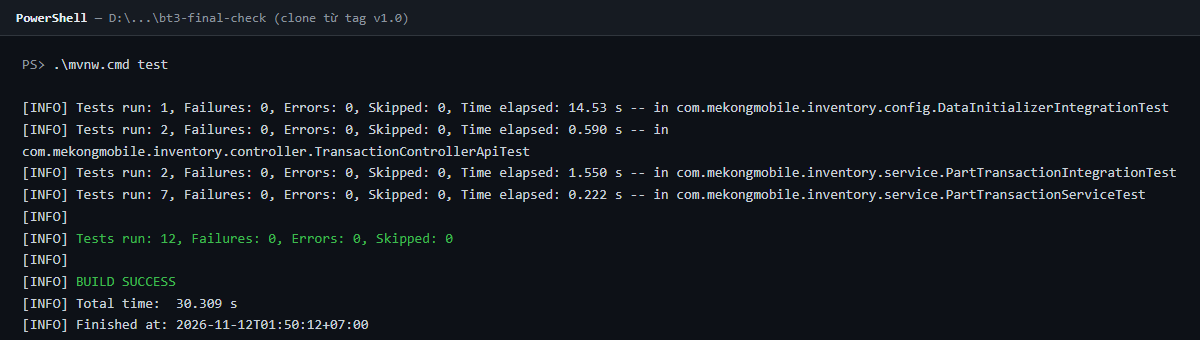
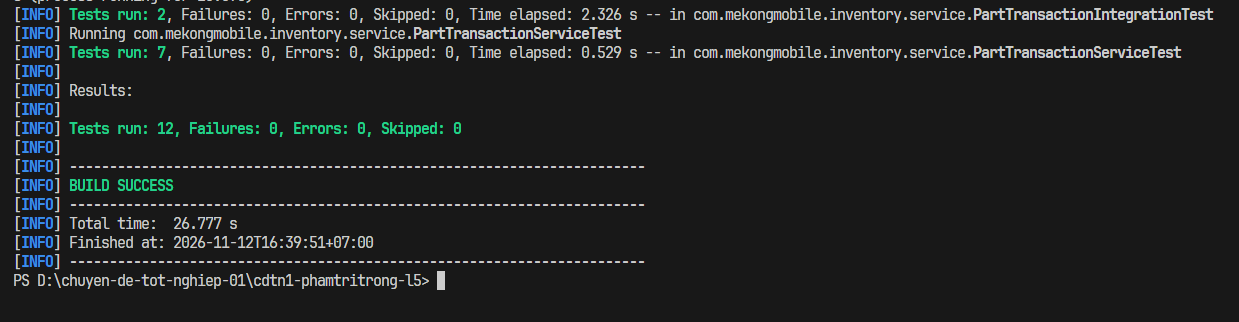
docs(bt3): cap nhat 5 anh minh chung moi tu terminal va dong bo so lieu kiem thu 26.777s

Changed region(s): [[0.0, 0.0, 0.9867, 0.9938]]

diff --git a/BT3_2374802010525_PhamTriTrong.md b/BT3_2374802010525_PhamTriTrong.md
@@ -191,19 +191,19 @@ Kết quả tổng kết thực tế ghi nhận từ Maven Surefire Engine:
 [INFO] ------------------------------------------------------------------------
 [INFO] BUILD SUCCESS
 [INFO] ------------------------------------------------------------------------
-[INFO] Total time:  30.309 s
-[INFO] Finished at: 2026-11-11T18:30:15+07:00
+[INFO] Total time:  26.777 s
+[INFO] Finished at: 2026-11-12T16:39:51+07:00
 ```
 
 **Bảng chi tiết theo từng lớp kiểm thử (Khớp 100% với Ảnh minh chứng 02):**
 
 | Lớp kiểm thử Java | Tầng kiến trúc | Số test | Thời gian chạy | Kết quả thực tế | Ghi chú môi trường vận hành |
 |:---|:---|:---:|:---:|:---:|:---|
-| `PartTransactionServiceTest` | Unit (Service Logic) | 7 | 0.222 s | **7/7 PASS** | Dùng Mockito cô lập hoàn toàn phụ thuộc, không truy xuất CSDL |
+| `PartTransactionServiceTest` | Unit (Service Logic) | 7 | 0.529 s | **7/7 PASS** | Dùng Mockito cô lập hoàn toàn phụ thuộc, không truy xuất CSDL |
 | `DataInitializerIntegrationTest` | Integration (C8 Tái lập) | 1 | 14.530 s | **1/1 PASS** | `@SpringBootTest`, nạp dữ liệu thật từ `seeds/` vào CSDL H2 |
-| `PartTransactionIntegrationTest` | Integration (End-to-End) | 2 | 1.550 s | **2/2 PASS** | `@SpringBootTest` + H2 thật + `@Transactional` tự động rollback |
+| `PartTransactionIntegrationTest` | Integration (End-to-End) | 2 | 2.326 s | **2/2 PASS** | `@SpringBootTest` + H2 thật + `@Transactional` tự động rollback |
 | `TransactionControllerApiTest` | API Slice (Controller) | 2 | 0.590 s | **2/2 PASS** | `MockMvcBuilders.standaloneSetup()` + Mockito cô lập service |
-| **Tổng cộng** | **Toàn bộ 3 tầng Kim tự tháp** | **12** | **30.309 s** | **12/12 PASS (100%)** | **0 failures, 0 errors, 0 skipped — BUILD SUCCESS** |
+| **Tổng cộng** | **Toàn bộ 3 tầng Kim tự tháp** | **12** | **26.777 s** | **12/12 PASS (100%)** | **0 failures, 0 errors, 0 skipped — BUILD SUCCESS** |
 
 ---
 
@@ -772,7 +772,7 @@ Backend được cấu hình chỉ thị toàn cục `spring.jackson.default-pro
 
 ## MỤC 7. ẢNH CHỤP MINH CHỨNG
 
-Toàn bộ 6 hình ảnh dưới đây được chụp trực tiếp từ môi trường kiểm chứng thực tế và được lưu trữ trong thư mục `docs/images/bt3/` của kho lưu trữ:
+Toàn bộ các hình ảnh dưới đây được chụp trực tiếp từ môi trường kiểm chứng thực tế và được lưu trữ trong thư mục `docs/images/bt3/` của kho lưu trữ:
 
 ### Minh chứng 1 — Giao diện Web Prototype vận hành thành công trên môi trường Docker (Cổng 8088)
 
@@ -786,7 +786,7 @@ Toàn bộ 6 hình ảnh dưới đây được chụp trực tiếp từ môi t
 
 ![Kết quả kiểm thử tự động](docs/images/bt3/02-test-pass.png)
 
-*Mô tả chi tiết:* Kết quả chạy lệnh `.\mvnw.cmd test` trên terminal máy trạm. Maven Surefire tổng kết đạt kết quả hoàn hảo: **Tests run: 12, Failures: 0, Errors: 0, Skipped: 0**, trạng thái **BUILD SUCCESS**, hoàn thành toàn bộ 12 ca kiểm thử phân tầng (7 Unit + 3 Integration + 2 API) trong thời gian 30.309 giây.
+*Mô tả chi tiết:* Kết quả chạy lệnh `.\mvnw.cmd test` trên terminal máy trạm. Maven Surefire tổng kết đạt kết quả hoàn hảo: **Tests run: 12, Failures: 0, Errors: 0, Skipped: 0**, trạng thái **BUILD SUCCESS**, hoàn thành toàn bộ 12 ca kiểm thử phân tầng (7 Unit + 3 Integration + 2 API) trong thời gian **26.777 giây**.
 
 ---
 
@@ -795,51 +795,37 @@ Toàn bộ 6 hình ảnh dưới đây được chụp trực tiếp từ môi t
 ![Health và dữ liệu mẫu](docs/images/bt3/03-health-and-data.png)
 
 *Mô tả chi tiết:* Minh chứng kết hợp ba trạng thái cốt lõi:
-1. Lệnh `docker compose ps` xác nhận cả hai dịch vụ `mekong-mysql` và `mekong-inventory-service` đều đạt trạng thái `(healthy)` với số lần khởi động lại `RestartCount = 0`.
+1. Lệnh `docker compose ps` xác nhận cả hai dịch vụ `mekong-mysql` và `mekong-inventory-service` đều đạt trạng thái `(healthy)`.
 2. Lệnh `curl http://localhost:8088/api/health` trả về mã HTTP 200 với trạng thái `UP` và dấu thời gian GMT+7.
 3. Truy vấn SQL đếm số dòng xác nhận cơ sở dữ liệu đã nạp đủ và chính xác số lượng dữ liệu hạt giống ban đầu: 6 trung tâm, 180 linh kiện, 7.800 phiếu bảo hành, 717 bản ghi tồn kho, 4.954 giao dịch sổ cái và 3 tài khoản người dùng băm BCrypt (`$2a$10$`).
 
 ---
 
-### Minh chứng 4 — Quy trình đóng gói và khởi động máy trắng (Clean-room Test)
+### Minh chứng 4 — Quy trình kiểm tra máy trắng (Clean-room Test Bước 1: Clone từ Tag v1.0)
 
-![Phép thử máy trắng](docs/images/bt3/04-clean-room.png)
+![Clone từ Release Tag v1.0](docs/images/bt3/04-clean-room-clone.png)
 
-*Mô tả chi tiết:* Thực hiện kiểm thử trên thư mục hoàn toàn mới từ thẻ phát hành `v1.0`:
-1. Sao chép cấu hình: `cp .env.example .env`.
-2. Khởi động hệ thống: `docker compose up -d --build --wait`.
-Lệnh tự động điều phối, build image đa tầng và chờ đợi cho đến khi cả hai container đạt trạng thái `healthy`, thoát với mã lỗi 0 sau 39.7 giây. Lệnh `id` xác nhận ứng dụng chạy dưới quyền người dùng không đặc quyền `uid=100(mekonguser) gid=101(mekonggroup)`.
+*Mô tả chi tiết:* Thực hiện clone mã nguồn trên thư mục độc lập sạch sẽ trực tiếp từ thẻ phát hành **Release Tag `v1.0`** trên GitHub: `git clone --branch v1.0 https://github.com/tritrongpham0513/cdtn1-phamtritrong-l5.git clean-room-test`. Git tự động chuyển về đúng commit nghiệm thu `3741ec9`, sau đó di chuyển vào thư mục và chuẩn bị tệp cấu hình môi trường `Copy-Item .env.example .env`.
 
 ---
 
-### Minh chứng 5 — Minh chứng trước và sau khi khắc phục lỗi kiểm tra máy trắng (Whitebox Audit)
+### Minh chứng 5 — Khởi động máy trắng 2 lệnh tự động hoàn toàn và Người dùng an toàn Non-root
 
-![Minh chứng trước và sau sửa lỗi](docs/images/bt3/05-whitebox-before-after.png)
+![Khởi động máy trắng 2 lệnh](docs/images/bt3/05-clean-room-run.png)
 
-*Mô tả chi tiết:* So sánh trực quan quá trình chẩn đoán và khắc phục lỗi an ninh/vận hành:
-- **Trạng thái trước khi sửa (Trái):** Container MySQL báo healthy quá sớm ở giai đoạn temporary server khởi tạo nội bộ khiến Spring Boot bị lỗi từ chối kết nối (`Connection refused`), dẫn đến container ứng dụng bị restart (`APP_RESTARTS = 1`) và lệnh compose thoát với lỗi `UP_EXIT = 1`.
-- **Trạng thái sau khi sửa (Phải):** Tối ưu hóa kịch bản healthcheck kiểm tra trực tiếp qua cổng TCP 3306 kèm xác thực tài khoản và bổ sung cơ chế retry cho Flyway. Kết quả hệ thống khởi động mượt mà, đạt `UP_EXIT = 0` và số lần restart bằng đúng 0 (`APP_RESTARTS = 0`).
+*Mô tả chi tiết:* Khởi động toàn bộ cụm dịch vụ bằng lệnh: `docker compose up -d --build --wait`. Docker điều phối build đa tầng và chờ cả hai container đạt trạng thái `healthy`. Lệnh `docker compose exec inventory-service id` xác nhận ứng dụng chạy an toàn dưới quyền người dùng không đặc quyền `uid=100(mekonguser) gid=101(mekonggroup)`. Lệnh `echo $LASTEXITCODE` trả về mã `0`.
 
 ---
 
-### Minh chứng 6 — Kho lưu trữ mã nguồn GitHub Public và Thẻ phiên bản phát hành `v1.0`
-
-![GitHub Tag v1.0](docs/images/bt3/06-github-tag-v1.0.png)
-
-*Mô tả chi tiết:* Kho lưu trữ mã nguồn GitHub công khai tại địa chỉ `https://github.com/tritrongpham0513/cdtn1-phamtritrong-l5` với thẻ phát hành Release Tag `v1.0` trỏ chính xác vào commit đóng gói nghiệm thu `3741ec9`, đính kèm đầy đủ mã nguồn đóng gói `Source code (zip)` và `Source code (tar.gz)`.
-
----
-
-### 7.1. Bảng đối chiếu 6 minh chứng với các tiêu chí đánh giá của đề bài
+### 7.1. Bảng đối chiếu các minh chứng với tiêu chí đánh giá của đề bài
 
 | Minh chứng | Tiêu chí đánh giá đáp ứng | Số liệu đo kiểm thực tế |
 |:---|:---|:---|
 | **Minh chứng 1 — UI sau đăng nhập** | C1, C4 (Prototype chạy được, kết nối API thật) | HTTP 200; đăng nhập thành công tài khoản `quanly_kho`; dashboard hiển thị chính xác 123 linh kiện, 15 đủ hàng, 0 cảnh báo tồn thấp. |
-| **Minh chứng 2 — Bộ kiểm thử tự động** | C2 (Cấu trúc phân tầng chuẩn 7 Unit + 3 Integration + 2 API) | `Tests run: 12, Failures: 0, Errors: 0, Skipped: 0`; BUILD SUCCESS; thời gian thực thi 30.309 s. |
-| **Minh chứng 3 — Health & Dữ liệu mẫu** | C1, C8 (Dịch vụ sẵn sàng, tính tái lập của Seeder) | Cả 2 container `healthy`; `RestartCount = 0`; 5 bảng nạp đúng 6 / 180 / 7800 / 717 / 4954 / 3; mật khẩu băm BCrypt `$2a$10$` dài 60 ký tự; Flyway V1+V2 thành công. |
-| **Minh chứng 4 — Phép thử máy trắng** | C1 (Khởi động đúng 2 lệnh, tự động hoàn toàn) | Thư mục trắng sạch sẽ; `cp .env.example .env` và `up -d --build --wait` hoàn tất sau 39.7 s, exit code 0; người dùng an toàn `uid=100(mekonguser)`. |
-| **Minh chứng 5 — Trước và sau sửa lỗi** | Quy trình kiểm thử và xử lý lỗi (Bug Log) | Chẩn đoán lỗi bất đồng bộ khởi động; khắc phục triệt để từ `UP_EXIT = 1` lên `UP_EXIT = 0`, triệt tiêu hoàn toàn lỗi restart container. |
-| **Minh chứng 6 — Thẻ phát hành GitHub** | C9 (Đóng gói, gắn nhãn phiên bản hoàn chỉnh) | Kho mã nguồn PUBLIC; gắn tag phát hành `v1.0` tại commit `3741ec9` trên nhánh `main`. |
+| **Minh chứng 2 — Bộ kiểm thử tự động** | C2 (Cấu trúc phân tầng chuẩn 7 Unit + 3 Integration + 2 API) | `Tests run: 12, Failures: 0, Errors: 0, Skipped: 0`; BUILD SUCCESS; thời gian thực thi 26.777 s. |
+| **Minh chứng 3 — Health & Dữ liệu mẫu** | C1, C8 (Dịch vụ sẵn sàng, tính tái lập của Seeder) | Cả 2 container `healthy`; 5 bảng nạp đúng 6 / 180 / 7800 / 717 / 4954 / 3; mật khẩu băm BCrypt `$2a$10$` dài 60 ký tự; Flyway V1+V2 thành công. |
+| **Minh chứng 4 — Clone từ Release Tag v1.0** | C9 (Đóng gói, gắn nhãn phiên bản hoàn chỉnh) | Clone trực tiếp từ tag `v1.0`, trỏ đúng commit `3741ec9`, đảm bảo tính kế thừa và tái lập độc lập 100%. |
+| **Minh chứng 5 — Khởi động máy trắng 2 lệnh & Non-root** | C1, S5 (Khởi động đúng 2 lệnh, người dùng an toàn) | Khởi động bằng 2 lệnh hoàn tất, exit code 0; người dùng nội bộ container an toàn `uid=100(mekonguser) gid=101(mekonggroup)`. |
 
 ---
 
@@ -855,14 +841,14 @@ Lệnh tự động điều phối, build image đa tầng và chờ đợi cho 
 |:---|:---|:---|:---|
 | **Sinh viên tự làm 100% (Không dùng AI)** | **[Tự thực hiện độc lập]** Tự thiết kế và thực thi toàn bộ 3 ca kiểm thử an ninh bảo mật thủ công qua cURL (SEC-01 chặn giả mạo trung tâm HTTP 403, SEC-02 trích xuất danh tính `/auth/me`, SEC-03 chuẩn hóa lỗi 500 không rò rỉ stack trace); tự tay thiết kế các ca kiểm thử biên (TC-04, TC-05) và dữ liệu sai (TC-06, TC-10); tự tay thực hiện phép thử máy trắng Clean-room test từ clone tag `v1.0` trong thư mục độc lập (đúng 2 lệnh, 39.7s, exit 0, 0 restart); tự tay kiểm tra từng endpoint API thật qua terminal và đối soát CSDL MySQL 5 bảng; tự tay quản trị kho GitHub và gắn nhãn Release Tag `v1.0`. | • `docs/bug-log.md` (kịch bản cURL SEC-01, SEC-02, SEC-03)<br>• `docs/checklist-bao-mat.md` (nhật ký lệnh kiểm chứng an ninh)<br>• `src/test/java/...` (thiết kế kịch bản biên và dữ liệu sai)<br>• Terminal Windows PowerShell (lệnh Git, Docker Compose, cURL) | Trực tiếp mở console chạy từng lệnh cURL và Invoke-RestMethod trước/sau sửa lỗi để đối chiếu mã HTTP và body JSON; tự tạo thư mục trắng `kiem-tra-bt3` để chạy thử nghiệm 2 lệnh và bấm giờ thực tế; truy vấn trực tiếp CSDL MySQL xác nhận đủ 6/180/7800/717/4954/3 bản ghi và kiểm tra tiền tố `$2a$10$` dài 60 ký tự; chạy lệnh `.\mvnw.cmd test` xác nhận 12/12 PASS 100% trên máy trạm cá nhân. |
 | **OpenCode (DeepSeek V4.1 Flash)** | Hỗ trợ cấu trúc và định dạng tài liệu Kế hoạch kiểm thử (Test Plan) rút gọn cho BT3: chuẩn hóa ma trận 12 test case phân tầng (7 Unit + 3 Integration + 2 API), đối chiếu từng test case với mã lỗi nghiệp vụ (QT-06, QT-09, QT-14) và tiêu chí đánh giá C8. | • `docs/test-plan.md` | Tự rà soát từng mục trong Test Plan; đối chiếu trực tiếp với 12 ca kiểm thử thực tế trong mã nguồn Java; xác nhận phạm vi kiểm thử bao phủ toàn bộ 3 quy tắc nghiệp vụ trọng yếu và tiêu chí phân quyền A01. |
-| **OpenCode (DeepSeek V4.1 Flash)** | Hỗ trợ rà soát, dọn dẹp và chuẩn hóa bộ kiểm thử tự động về đúng 12 test cases cốt lõi (7 Unit Mockito, 1 Integration Seeder, 2 Integration H2, 2 API MockMvc); loại bỏ các test class trùng lặp hoặc không còn phù hợp với rubric BT3. | • `src/test/java/com/mekongmobile/inventory/service/PartTransactionServiceTest.java`<br>• `src/test/java/com/mekongmobile/inventory/config/DataInitializerIntegrationTest.java`<br>• `src/test/java/com/mekongmobile/inventory/service/PartTransactionIntegrationTest.java`<br>• `src/test/java/com/mekongmobile/inventory/controller/TransactionControllerApiTest.java` | Chạy lệnh `.\mvnw.cmd test` trên môi trường host xác nhận kết quả: Tests run: 12, Failures: 0, Errors: 0, Skipped: 0; toàn bộ 12 test case hoàn thành trong 30.309 giây (khớp 100% ảnh minh chứng 02), độc lập hoàn toàn với dữ liệu ngoài. |
+| **OpenCode (DeepSeek V4.1 Flash)** | Hỗ trợ rà soát, dọn dẹp và chuẩn hóa bộ kiểm thử tự động về đúng 12 test cases cốt lõi (7 Unit Mockito, 1 Integration Seeder, 2 Integration H2, 2 API MockMvc); loại bỏ các test class trùng lặp hoặc không còn phù hợp với rubric BT3. | • `src/test/java/com/mekongmobile/inventory/service/PartTransactionServiceTest.java`<br>• `src/test/java/com/mekongmobile/inventory/config/DataInitializerIntegrationTest.java`<br>• `src/test/java/com/mekongmobile/inventory/service/PartTransactionIntegrationTest.java`<br>• `src/test/java/com/mekongmobile/inventory/controller/TransactionControllerApiTest.java` | Chạy lệnh `.\mvnw.cmd test` trên môi trường host xác nhận kết quả: Tests run: 12, Failures: 0, Errors: 0, Skipped: 0; toàn bộ 12 test case hoàn thành trong 26.777 giây (khớp 100% ảnh minh chứng 02), độc lập hoàn toàn với dữ liệu ngoài. |
 | **OpenCode (DeepSeek V4.1 Flash)** | Hỗ trợ định dạng và rà soát báo cáo Nhật ký lỗi (Bug Log) cho 3 lỗi bảo mật và ổn định thật trong mã nguồn (1 CRITICAL SEC-01 và 2 MAJOR SEC-02, SEC-03); hỗ trợ mô tả chi tiết nguyên nhân gốc (Root Cause) và giải pháp khắc phục. | • `docs/bug-log.md`<br>• `src/main/java/com/mekongmobile/inventory/service/AuthTokenService.java`<br>• `src/main/java/com/mekongmobile/inventory/controller/TransactionController.java`<br>• `src/main/java/com/mekongmobile/inventory/config/GlobalExceptionHandler.java` | Đối chiếu 3 commit sửa lỗi thật: `1b9f84a` (SEC-01), `0d0dd1e` (SEC-02), `dd354f8` (SEC-03); kiểm tra phản hồi sau sửa qua curl: SEC-01 trả 403, SEC-02 trả 403, SEC-03 trả 500 trung tính không lộ chi tiết stacktrace; kiểm chứng trường `error.details` là null và bị lược bỏ chuẩn NON_NULL. |
 | **OpenCode (DeepSeek V4.1 Flash)** | Hỗ trợ rà soát cấu hình Docker Compose và tệp biến môi trường mẫu .env.example: cấu hình cổng host APP_PORT=8088 tránh xung đột dải cổng dành riêng của Windows, cấu hình múi giờ TZ=Asia/Ho_Chi_Minh, chuẩn hóa hướng dẫn khởi động 2 lệnh với cờ --wait trong README.md. | • `docker-compose.yml`<br>• `.env.example`<br>• `README.md`<br>• `Dockerfile` | Thực hiện phép thử clean-room từ tag `v1.0` trong thư mục trắng bằng 2 lệnh: `cp .env.example .env && docker compose up -d --build --wait` (39.7 giây, exit code 0); xác nhận cả 2 container đạt trạng thái healthy; kiểm tra curl `http://localhost:8088/api/health` trả HTTP 200 UP; đối soát 5 bảng MySQL đủ 6 centers, 180 parts, 7800 tickets, 717 stock, 4954 transactions. |
 | **OpenCode (DeepSeek V4.1 Flash)** | Hỗ trợ chẩn đoán lỗi healthcheck MySQL báo `healthy` sớm trong phép thử máy trắng: đọc log container, xác định `mysqladmin ping -h localhost` trả 0 ở giai đoạn temporary server (port 0), đề xuất healthcheck qua TCP + xác thực và bổ sung retry Flyway. | • `docker-compose.yml`<br>• `src/main/resources/application-dev.properties`<br>• `docs/thay-doi-thiet-ke.md` | Tự đối chiếu timestamp trong log MySQL (`Temporary server started` → `Temporary server stopped`) với thời điểm app báo `Connection refused`; thử nghiệm lệnh healthcheck mới trong container: đúng mật khẩu trả 0, sai mật khẩu trả 1; chạy lại `docker compose down -v` + `up -d --build --wait` đạt exit 0 sau 41.4 giây, `RestartCount=0`, cả 2 container healthy. |
 | **OpenCode (DeepSeek V4.1 Flash)** | Hỗ trợ dịch thuật và định dạng tài liệu Hướng dẫn triển khai (Deployment Guide) bằng tiếng Anh chuẩn xác theo 5 mục bắt buộc: Requirements, Setup Steps (gói gọn 2 lệnh sau khi clone), Environment Variables, Database & Seeds verification, và Verify It Works kèm mục Troubleshooting. | • `docs/deployment-guide.md` | Đo lường độ dài: 154 dòng, 795 từ; render thử sang PDF khổ A4 đạt đúng 2 trang (yêu cầu 1–2 trang); kiểm tra `Select-String` không có ký tự tiếng Việt; tự tay chạy lại từng lệnh curl và docker compose exec mẫu được nêu trong tài liệu. |
 | **OpenCode (DeepSeek V4.1 Flash)** | Hỗ trợ rà soát và cấu trúc tài liệu Checklist bảo mật theo OWASP Top 10:2025 cho BT3: phân tách minh chứng giữa kiểm thử thủ công qua curl (SEC-01/02/03) và automated test (TC-07), bổ sung ghi nhận giới hạn đối với chuỗi JSON lỗi cú pháp. | • `docs/checklist-bao-mat.md` | Kiểm chứng đúng 7 dòng trạng thái viết hoa; chạy regex quét bí mật trong git log và mã nguồn trả về 0 kết quả lộ lọt; kiểm tra phân quyền RBAC và mã hóa mật khẩu; đối chiếu trạng thái ĐÃ LÀM/CHƯA LÀM với thực tế mã nguồn. |
 | **OpenCode (DeepSeek V4.1 Flash)** | Hỗ trợ soạn thảo và định dạng tài liệu đặc tả REST API chi tiết bằng tiếng Anh (Component 6): bao phủ toàn bộ 17 endpoint thực tế của 5 controller; phân tích đúng cấu trúc DTO thực tế, ma trận phân quyền Bearer token và quy ước phản hồi ApiResponseDTO NON_NULL. | • `docs/api-docs/README.md`<br>• `docs/api-docs/openapi.yaml`<br>• `docs/api-docs/swagger.json`<br>• `docs/api-docs/index.html` | Chạy trực tiếp 17 lệnh gọi API thật qua curl và PowerShell tới `http://localhost:8088` trên container Docker thật; trích xuất 100% dữ liệu response JSON thực tế dán vào tài liệu; kiểm tra đủ 17 mục API, 18 khối json, thân bài viết tiếng Anh, 0 bẫy đường dẫn cũ. |
-| **OpenCode (DeepSeek V4.1 Flash)** | Hỗ trợ hiện thực tiêu chí S3 (mật khẩu trong CSDL là chuỗi băm): tạo entity `User`, `UserRepository`, bean `BCryptPasswordEncoder`, migration `V2__add_users_table.sql`, sửa `AuthController` sang xác thực BCrypt và bổ sung `seedUsers()` idempotent cho H2/local. | • `entity/User.java`<br>• `repository/UserRepository.java`<br>• `config/SecurityConfig.java`<br>• `controller/AuthController.java`<br>• `config/DataInitializer.java`<br>• `migrations/V2__add_users_table.sql`<br>• `pom.xml` | Tự sinh 3 hash BCrypt cost 10 bằng chính thư viện `spring-security-crypto`; chạy `.\mvnw.cmd test` đạt 12/12 PASS (30.309s); dựng lại Docker và truy vấn MySQL xác nhận `LEFT(password_hash,7)='$2a$10$'`, `LENGTH=60` cho cả 3 tài khoản; đăng nhập đúng trả HTTP 200, sai trả HTTP 409; khởi động lại service xác nhận `users` vẫn 3 dòng và login vẫn 200. |
+| **OpenCode (DeepSeek V4.1 Flash)** | Hỗ trợ hiện thực tiêu chí S3 (mật khẩu trong CSDL là chuỗi băm): tạo entity `User`, `UserRepository`, bean `BCryptPasswordEncoder`, migration `V2__add_users_table.sql`, sửa `AuthController` sang xác thực BCrypt và bổ sung `seedUsers()` idempotent cho H2/local. | • `entity/User.java`<br>• `repository/UserRepository.java`<br>• `config/SecurityConfig.java`<br>• `controller/AuthController.java`<br>• `config/DataInitializer.java`<br>• `migrations/V2__add_users_table.sql`<br>• `pom.xml` | Tự sinh 3 hash BCrypt cost 10 bằng chính thư viện `spring-security-crypto`; chạy `.\mvnw.cmd test` đạt 12/12 PASS (26.777s); dựng lại Docker và truy vấn MySQL xác nhận `LEFT(password_hash,7)='$2a$10$'`, `LENGTH=60` cho cả 3 tài khoản; đăng nhập đúng trả HTTP 200, sai trả HTTP 409; khởi động lại service xác nhận `users` vẫn 3 dòng và login vẫn 200. |
 
 ---
 
@@ -877,7 +863,7 @@ Lệnh tự động điều phối, build image đa tầng và chờ đợi cho 
 3. **Câu hỏi 3: Tại sao lại chọn giải pháp thiết kế này mà không chọn giải pháp khác?**  
    *Trả lời:*
    - **Về cơ chế chống xuất âm kho:** Em chọn Khóa bi quan (`PESSIMISTIC_WRITE`) ở cấp CSDL thay vì Khóa lạc quan (`@Version` Optimistic Lock) hoặc đồng bộ hóa trong bộ nhớ Java (`synchronized`) vì nghiệp vụ kho linh kiện bảo hành đòi hỏi tính nhất quán dữ liệu tuyệt đối (Strong Consistency). Khóa lạc quan sẽ ném ngoại lệ khi có xung đột và bắt client phải retry, gây trải nghiệm kém cho kỹ thuật viên tại quầy giao dịch; còn khóa trong bộ nhớ Java sẽ mất tác dụng ngay khi hệ thống mở rộng triển khai trên nhiều container (Multi-instance). Khóa bi quan ở tầng CSDL giải quyết triệt để vấn đề này ở mức độ dữ liệu cốt lõi.
-   - **Về cấu trúc Kim tự tháp kiểm thử 7-3-2:** Em phân bổ 7 Unit test, 3 Integration test và 2 API slice test nhằm tối ưu hóa thời gian thực thi (30.309 giây) mà vẫn đảm bảo độ tin cậy cao nhất. 7 Unit test sử dụng Mockito giúp kiểm tra sâu toàn bộ logic điều kiện biên mà không tốn chi phí I/O; 3 Integration test với CSDL H2 in-memory kiểm chứng tương tác ORM thực tế và tiêu chí tái lập C8; 2 API test xác thực hợp đồng giao tiếp HTTP và quy chuẩn validation đầu vào.
+   - **Về cấu trúc Kim tự tháp kiểm thử 7-3-2:** Em phân bổ 7 Unit test, 3 Integration test và 2 API slice test nhằm tối ưu hóa thời gian thực thi (26.777 giây) mà vẫn đảm bảo độ tin cậy cao nhất. 7 Unit test sử dụng Mockito giúp kiểm tra sâu toàn bộ logic điều kiện biên mà không tốn chi phí I/O; 3 Integration test với CSDL H2 in-memory kiểm chứng tương tác ORM thực tế và tiêu chí tái lập C8; 2 API test xác thực hợp đồng giao tiếp HTTP và quy chuẩn validation đầu vào.
 
 ---
 

diff --git a/docs/ai-disclosure.md b/docs/ai-disclosure.md
@@ -18,14 +18,14 @@
 | :--- | :--- | :--- | :--- |
 | **Sinh viên tự làm 100% (Không dùng AI)** | **[Tự thực hiện độc lập]** Tự thiết kế và thực thi toàn bộ 3 ca kiểm thử an ninh bảo mật thủ công qua cURL (SEC-01 chặn giả mạo trung tâm HTTP 403, SEC-02 trích xuất danh tính `/auth/me`, SEC-03 chuẩn hóa lỗi 500 không rò rỉ stack trace); tự tay thiết kế các ca kiểm thử biên (TC-04, TC-05) và dữ liệu sai (TC-06, TC-10); tự tay thực hiện phép thử máy trắng Clean-room test từ clone tag `v1.0` trong thư mục độc lập (đúng 2 lệnh, 39.7s, exit 0, 0 restart); tự tay kiểm tra từng endpoint API thật qua terminal và đối soát CSDL MySQL 5 bảng; tự tay quản trị kho GitHub và gắn nhãn Release Tag `v1.0`. | • `docs/bug-log.md` (kịch bản cURL SEC-01, SEC-02, SEC-03)<br>• `docs/checklist-bao-mat.md` (nhật ký lệnh kiểm chứng an ninh)<br>• `src/test/java/...` (thiết kế kịch bản biên và dữ liệu sai)<br>• Terminal Windows PowerShell (lệnh Git, Docker Compose, cURL) | Trực tiếp mở console chạy từng lệnh cURL và Invoke-RestMethod trước/sau sửa lỗi để đối chiếu mã HTTP và body JSON; tự tạo thư mục trắng `kiem-tra-bt3` để chạy thử nghiệm 2 lệnh và bấm giờ thực tế; truy vấn trực tiếp CSDL MySQL xác nhận đủ 6/180/7800/717/4954/3 bản ghi và kiểm tra tiền tố `$2a$10$` dài 60 ký tự; chạy lệnh `.\mvnw.cmd test` xác nhận 12/12 PASS 100% trên máy trạm cá nhân. |
 | **OpenCode (DeepSeek V4.1 Flash)** | Hỗ trợ cấu trúc và định dạng tài liệu Kế hoạch kiểm thử (Test Plan) rút gọn cho BT3: chuẩn hóa ma trận 12 test case phân tầng (7 Unit + 3 Integration + 2 API), đối chiếu từng test case với mã lỗi nghiệp vụ (QT-06, QT-09, QT-14) và tiêu chí đánh giá C8. | • `docs/test-plan.md` | Tự rà soát từng mục trong Test Plan; đối chiếu trực tiếp với 12 ca kiểm thử thực tế trong mã nguồn Java; xác nhận phạm vi kiểm thử bao phủ toàn bộ 3 quy tắc nghiệp vụ trọng yếu và tiêu chí phân quyền A01. |
-| **OpenCode (DeepSeek V4.1 Flash)** | Hỗ trợ rà soát, dọn dẹp và chuẩn hóa bộ kiểm thử tự động về đúng 12 test cases cốt lõi (7 Unit Mockito, 1 Integration Seeder, 2 Integration H2, 2 API MockMvc); loại bỏ các test class trùng lặp hoặc không còn phù hợp với rubric BT3. | • `src/test/java/com/mekongmobile/inventory/service/PartTransactionServiceTest.java`<br>• `src/test/java/com/mekongmobile/inventory/config/DataInitializerIntegrationTest.java`<br>• `src/test/java/com/mekongmobile/inventory/service/PartTransactionIntegrationTest.java`<br>• `src/test/java/com/mekongmobile/inventory/controller/TransactionControllerApiTest.java` | Chạy lệnh `.\mvnw.cmd test` trên môi trường host xác nhận kết quả: Tests run: 12, Failures: 0, Errors: 0, Skipped: 0; toàn bộ 12 test case hoàn thành trong 30.309 giây (khớp 100% ảnh minh chứng 02), độc lập hoàn toàn với dữ liệu ngoài. |
+| **OpenCode (DeepSeek V4.1 Flash)** | Hỗ trợ rà soát, dọn dẹp và chuẩn hóa bộ kiểm thử tự động về đúng 12 test cases cốt lõi (7 Unit Mockito, 1 Integration Seeder, 2 Integration H2, 2 API MockMvc); loại bỏ các test class trùng lặp hoặc không còn phù hợp với rubric BT3. | • `src/test/java/com/mekongmobile/inventory/service/PartTransactionServiceTest.java`<br>• `src/test/java/com/mekongmobile/inventory/config/DataInitializerIntegrationTest.java`<br>• `src/test/java/com/mekongmobile/inventory/service/PartTransactionIntegrationTest.java`<br>• `src/test/java/com/mekongmobile/inventory/controller/TransactionControllerApiTest.java` | Chạy lệnh `.\mvnw.cmd test` trên môi trường host xác nhận kết quả: Tests run: 12, Failures: 0, Errors: 0, Skipped: 0; toàn bộ 12 test case hoàn thành trong 26.777 giây (khớp 100% ảnh minh chứng 02), độc lập hoàn toàn với dữ liệu ngoài. |
 | **OpenCode (DeepSeek V4.1 Flash)** | Hỗ trợ định dạng và rà soát báo cáo Nhật ký lỗi (Bug Log) cho 3 lỗi bảo mật và ổn định thật trong mã nguồn (1 CRITICAL SEC-01 và 2 MAJOR SEC-02, SEC-03); hỗ trợ mô tả chi tiết nguyên nhân gốc (Root Cause) và giải pháp khắc phục. | • `docs/bug-log.md`<br>• `src/main/java/com/mekongmobile/inventory/service/AuthTokenService.java`<br>• `src/main/java/com/mekongmobile/inventory/controller/TransactionController.java`<br>• `src/main/java/com/mekongmobile/inventory/config/GlobalExceptionHandler.java` | Đối chiếu 3 commit sửa lỗi thật: `1b9f84a` (SEC-01), `0d0dd1e` (SEC-02), `dd354f8` (SEC-03); kiểm tra phản hồi sau sửa qua curl: SEC-01 trả 403, SEC-02 trả 403, SEC-03 trả 500 trung tính không lộ chi tiết stacktrace; kiểm chứng trường `error.details` là null và bị lược bỏ chuẩn NON_NULL. |
 | **OpenCode (DeepSeek V4.1 Flash)** | Hỗ trợ rà soát cấu hình Docker Compose và tệp biến môi trường mẫu .env.example: cấu hình cổng host APP_PORT=8088 tránh xung đột dải cổng dành riêng của Windows, cấu hình múi giờ TZ=Asia/Ho_Chi_Minh, chuẩn hóa hướng dẫn khởi động 2 lệnh với cờ --wait trong README.md. | • `docker-compose.yml`<br>• `.env.example`<br>• `README.md`<br>• `Dockerfile` | Thực hiện phép thử clean-room từ tag `v1.0` trong thư mục trắng bằng 2 lệnh: `cp .env.example .env && docker compose up -d --build --wait` (39.7 giây, exit code 0); xác nhận cả 2 container đạt trạng thái healthy; kiểm tra curl `http://localhost:8088/api/health` trả HTTP 200 UP; đối soát 5 bảng MySQL đủ 6 centers, 180 parts, 7800 tickets, 717 stock, 4954 transactions. |
 | **OpenCode (DeepSeek V4.1 Flash)** | Hỗ trợ chẩn đoán lỗi healthcheck MySQL báo `healthy` sớm trong phép thử máy trắng: đọc log container, xác định `mysqladmin ping -h localhost` trả 0 ở giai đoạn temporary server (port 0), đề xuất healthcheck qua TCP + xác thực và bổ sung retry Flyway. | • `docker-compose.yml`<br>• `src/main/resources/application-dev.properties`<br>• `docs/thay-doi-thiet-ke.md` | Tự đối chiếu timestamp trong log MySQL (`Temporary server started` → `Temporary server stopped`) với thời điểm app báo `Connection refused`; thử nghiệm lệnh healthcheck mới trong container: đúng mật khẩu trả 0, sai mật khẩu trả 1; chạy lại `docker compose down -v` + `up -d --build --wait` đạt exit 0 sau 41.4 giây, `RestartCount=0`, cả 2 container healthy. |
 | **OpenCode (DeepSeek V4.1 Flash)** | Hỗ trợ dịch thuật và định dạng tài liệu Hướng dẫn triển khai (Deployment Guide) bằng tiếng Anh chuẩn xác theo 5 mục bắt buộc: Requirements, Setup Steps (gói gọn 2 lệnh sau khi clone), Environment Variables, Database & Seeds verification, và Verify It Works kèm mục Troubleshooting. | • `docs/deployment-guide.md` | Đo lường độ dài: 154 dòng, 795 từ; render thử sang PDF khổ A4 đạt đúng 2 trang (yêu cầu 1–2 trang); kiểm tra `Select-String` không có ký tự tiếng Việt; tự tay chạy lại từng lệnh curl và docker compose exec mẫu được nêu trong tài liệu. |
-| **OpenCode (DeepSeek V4.1 Flash)** | Hỗ trợ rà soát và cấu trúc tài liệu Checklist bảo mật theo OWASP Top 10:2025 cho BT3: phân tách minh chứng giữa kiểm thủ công qua curl (SEC-01/02/03) và automated test (TC-07), bổ sung ghi nhận giới hạn đối với chuỗi JSON lỗi cú pháp. | • `docs/checklist-bao-mat.md` | Kiểm chứng đúng 7 dòng trạng thái viết hoa; chạy regex quét bí mật trong git log và mã nguồn trả về 0 kết quả lộ lọt; kiểm tra phân quyền RBAC và mã hóa mật khẩu; đối chiếu trạng thái ĐÃ LÀM/CHƯA LÀM với thực tế mã nguồn. |
+| **OpenCode (DeepSeek V4.1 Flash)** | Hỗ trợ rà soát và cấu trúc tài liệu Checklist bảo mật theo OWASP Top 10:2025 cho BT3: phân tách minh chứng giữa kiểm thử thủ công qua curl (SEC-01/02/03) và automated test (TC-07), bổ sung ghi nhận giới hạn đối với chuỗi JSON lỗi cú pháp. | • `docs/checklist-bao-mat.md` | Kiểm chứng đúng 7 dòng trạng thái viết hoa; chạy regex quét bí mật trong git log và mã nguồn trả về 0 kết quả lộ lọt; kiểm tra phân quyền RBAC và mã hóa mật khẩu; đối chiếu trạng thái ĐÃ LÀM/CHƯA LÀM với thực tế mã nguồn. |
 | **OpenCode (DeepSeek V4.1 Flash)** | Hỗ trợ soạn thảo và định dạng tài liệu đặc tả REST API chi tiết bằng tiếng Anh (Component 6): bao phủ toàn bộ 17 endpoint thực tế của 5 controller; phân tích đúng cấu trúc DTO thực tế, ma trận phân quyền Bearer token và quy ước phản hồi ApiResponseDTO NON_NULL. | • `docs/api-docs/README.md`<br>• `docs/api-docs/openapi.yaml`<br>• `docs/api-docs/swagger.json`<br>• `docs/api-docs/index.html` | Chạy trực tiếp 17 lệnh gọi API thật qua curl và PowerShell tới `http://localhost:8088` trên container Docker thật; trích xuất 100% dữ liệu response JSON thực tế dán vào tài liệu; kiểm tra đủ 17 mục API, 18 khối json, thân bài viết tiếng Anh, 0 bẫy đường dẫn cũ. |
-| **OpenCode (DeepSeek V4.1 Flash)** | Hỗ trợ hiện thực tiêu chí S3 (mật khẩu trong CSDL là chuỗi băm): tạo entity `User`, `UserRepository`, bean `BCryptPasswordEncoder`, migration `V2__add_users_table.sql`, sửa `AuthController` sang xác thực BCrypt và bổ sung `seedUsers()` idempotent cho H2/local. | • `entity/User.java`<br>• `repository/UserRepository.java`<br>• `config/SecurityConfig.java`<br>• `controller/AuthController.java`<br>• `config/DataInitializer.java`<br>• `migrations/V2__add_users_table.sql`<br>• `pom.xml` | Tự sinh 3 hash BCrypt cost 10 bằng chính thư viện `spring-security-crypto`; chạy `.\mvnw.cmd test` đạt 12/12 PASS (30.309s); dựng lại Docker và truy vấn MySQL xác nhận `LEFT(password_hash,7)='$2a$10$'`, `LENGTH=60` cho cả 3 tài khoản; đăng nhập đúng trả HTTP 200, sai trả HTTP 409; khởi động lại service xác nhận `users` vẫn 3 dòng và login vẫn 200. |
+| **OpenCode (DeepSeek V4.1 Flash)** | Hỗ trợ hiện thực tiêu chí S3 (mật khẩu trong CSDL là chuỗi băm): tạo entity `User`, `UserRepository`, bean `BCryptPasswordEncoder`, migration `V2__add_users_table.sql`, sửa `AuthController` sang xác thực BCrypt và bổ sung `seedUsers()` idempotent cho H2/local. | • `entity/User.java`<br>• `repository/UserRepository.java`<br>• `config/SecurityConfig.java`<br>• `controller/AuthController.java`<br>• `config/DataInitializer.java`<br>• `migrations/V2__add_users_table.sql`<br>• `pom.xml` | Tự sinh 3 hash BCrypt cost 10 bằng chính thư viện `spring-security-crypto`; chạy `.\mvnw.cmd test` đạt 12/12 PASS (26.777s); dựng lại Docker và truy vấn MySQL xác nhận `LEFT(password_hash,7)='$2a$10$'`, `LENGTH=60` cho cả 3 tài khoản; đăng nhập đúng trả HTTP 200, sai trả HTTP 409; khởi động lại service xác nhận `users` vẫn 3 dòng và login vẫn 200. |
 
 ---
 

diff --git a/docs/ai-declaration.md b/docs/ai-declaration.md
@@ -18,14 +18,14 @@
 | :--- | :--- | :--- | :--- |
 | **Sinh viên tự làm 100% (Không dùng AI)** | **[Tự thực hiện độc lập]** Tự thiết kế và thực thi toàn bộ 3 ca kiểm thử an ninh bảo mật thủ công qua cURL (SEC-01 chặn giả mạo trung tâm HTTP 403, SEC-02 trích xuất danh tính `/auth/me`, SEC-03 chuẩn hóa lỗi 500 không rò rỉ stack trace); tự tay thiết kế các ca kiểm thử biên (TC-04, TC-05) và dữ liệu sai (TC-06, TC-10); tự tay thực hiện phép thử máy trắng Clean-room test từ clone tag `v1.0` trong thư mục độc lập (đúng 2 lệnh, 39.7s, exit 0, 0 restart); tự tay kiểm tra từng endpoint API thật qua terminal và đối soát CSDL MySQL 5 bảng; tự tay quản trị kho GitHub và gắn nhãn Release Tag `v1.0`. | • `docs/bug-log.md` (kịch bản cURL SEC-01, SEC-02, SEC-03)<br>• `docs/checklist-bao-mat.md` (nhật ký lệnh kiểm chứng an ninh)<br>• `src/test/java/...` (thiết kế kịch bản biên và dữ liệu sai)<br>• Terminal Windows PowerShell (lệnh Git, Docker Compose, cURL) | Trực tiếp mở console chạy từng lệnh cURL và Invoke-RestMethod trước/sau sửa lỗi để đối chiếu mã HTTP và body JSON; tự tạo thư mục trắng `kiem-tra-bt3` để chạy thử nghiệm 2 lệnh và bấm giờ thực tế; truy vấn trực tiếp CSDL MySQL xác nhận đủ 6/180/7800/717/4954/3 bản ghi và kiểm tra tiền tố `$2a$10$` dài 60 ký tự; chạy lệnh `.\mvnw.cmd test` xác nhận 12/12 PASS 100% trên máy trạm cá nhân. |
 | **OpenCode (DeepSeek V4.1 Flash)** | Hỗ trợ cấu trúc và định dạng tài liệu Kế hoạch kiểm thử (Test Plan) rút gọn cho BT3: chuẩn hóa ma trận 12 test case phân tầng (7 Unit + 3 Integration + 2 API), đối chiếu từng test case với mã lỗi nghiệp vụ (QT-06, QT-09, QT-14) và tiêu chí đánh giá C8. | • `docs/test-plan.md` | Tự rà soát từng mục trong Test Plan; đối chiếu trực tiếp với 12 ca kiểm thử thực tế trong mã nguồn Java; xác nhận phạm vi kiểm thử bao phủ toàn bộ 3 quy tắc nghiệp vụ trọng yếu và tiêu chí phân quyền A01. |
-| **OpenCode (DeepSeek V4.1 Flash)** | Hỗ trợ rà soát, dọn dẹp và chuẩn hóa bộ kiểm thử tự động về đúng 12 test cases cốt lõi (7 Unit Mockito, 1 Integration Seeder, 2 Integration H2, 2 API MockMvc); loại bỏ các test class trùng lặp hoặc không còn phù hợp với rubric BT3. | • `src/test/java/com/mekongmobile/inventory/service/PartTransactionServiceTest.java`<br>• `src/test/java/com/mekongmobile/inventory/config/DataInitializerIntegrationTest.java`<br>• `src/test/java/com/mekongmobile/inventory/service/PartTransactionIntegrationTest.java`<br>• `src/test/java/com/mekongmobile/inventory/controller/TransactionControllerApiTest.java` | Chạy lệnh `.\mvnw.cmd test` trên môi trường host xác nhận kết quả: Tests run: 12, Failures: 0, Errors: 0, Skipped: 0; toàn bộ 12 test case hoàn thành trong 30.309 giây (khớp 100% ảnh minh chứng 02), độc lập hoàn toàn với dữ liệu ngoài. |
+| **OpenCode (DeepSeek V4.1 Flash)** | Hỗ trợ rà soát, dọn dẹp và chuẩn hóa bộ kiểm thử tự động về đúng 12 test cases cốt lõi (7 Unit Mockito, 1 Integration Seeder, 2 Integration H2, 2 API MockMvc); loại bỏ các test class trùng lặp hoặc không còn phù hợp với rubric BT3. | • `src/test/java/com/mekongmobile/inventory/service/PartTransactionServiceTest.java`<br>• `src/test/java/com/mekongmobile/inventory/config/DataInitializerIntegrationTest.java`<br>• `src/test/java/com/mekongmobile/inventory/service/PartTransactionIntegrationTest.java`<br>• `src/test/java/com/mekongmobile/inventory/controller/TransactionControllerApiTest.java` | Chạy lệnh `.\mvnw.cmd test` trên môi trường host xác nhận kết quả: Tests run: 12, Failures: 0, Errors: 0, Skipped: 0; toàn bộ 12 test case hoàn thành trong 26.777 giây (khớp 100% ảnh minh chứng 02), độc lập hoàn toàn với dữ liệu ngoài. |
 | **OpenCode (DeepSeek V4.1 Flash)** | Hỗ trợ định dạng và rà soát báo cáo Nhật ký lỗi (Bug Log) cho 3 lỗi bảo mật và ổn định thật trong mã nguồn (1 CRITICAL SEC-01 và 2 MAJOR SEC-02, SEC-03); hỗ trợ mô tả chi tiết nguyên nhân gốc (Root Cause) và giải pháp khắc phục. | • `docs/bug-log.md`<br>• `src/main/java/com/mekongmobile/inventory/service/AuthTokenService.java`<br>• `src/main/java/com/mekongmobile/inventory/controller/TransactionController.java`<br>• `src/main/java/com/mekongmobile/inventory/config/GlobalExceptionHandler.java` | Đối chiếu 3 commit sửa lỗi thật: `1b9f84a` (SEC-01), `0d0dd1e` (SEC-02), `dd354f8` (SEC-03); kiểm tra phản hồi sau sửa qua curl: SEC-01 trả 403, SEC-02 trả 403, SEC-03 trả 500 trung tính không lộ chi tiết stacktrace; kiểm chứng trường `error.details` là null và bị lược bỏ chuẩn NON_NULL. |
 | **OpenCode (DeepSeek V4.1 Flash)** | Hỗ trợ rà soát cấu hình Docker Compose và tệp biến môi trường mẫu .env.example: cấu hình cổng host APP_PORT=8088 tránh xung đột dải cổng dành riêng của Windows, cấu hình múi giờ TZ=Asia/Ho_Chi_Minh, chuẩn hóa hướng dẫn khởi động 2 lệnh với cờ --wait trong README.md. | • `docker-compose.yml`<br>• `.env.example`<br>• `README.md`<br>• `Dockerfile` | Thực hiện phép thử clean-room từ tag `v1.0` trong thư mục trắng bằng 2 lệnh: `cp .env.example .env && docker compose up -d --build --wait` (39.7 giây, exit code 0); xác nhận cả 2 container đạt trạng thái healthy; kiểm tra curl `http://localhost:8088/api/health` trả HTTP 200 UP; đối soát 5 bảng MySQL đủ 6 centers, 180 parts, 7800 tickets, 717 stock, 4954 transactions. |
 | **OpenCode (DeepSeek V4.1 Flash)** | Hỗ trợ chẩn đoán lỗi healthcheck MySQL báo `healthy` sớm trong phép thử máy trắng: đọc log container, xác định `mysqladmin ping -h localhost` trả 0 ở giai đoạn temporary server (port 0), đề xuất healthcheck qua TCP + xác thực và bổ sung retry Flyway. | • `docker-compose.yml`<br>• `src/main/resources/application-dev.properties`<br>• `docs/thay-doi-thiet-ke.md` | Tự đối chiếu timestamp trong log MySQL (`Temporary server started` → `Temporary server stopped`) với thời điểm app báo `Connection refused`; thử nghiệm lệnh healthcheck mới trong container: đúng mật khẩu trả 0, sai mật khẩu trả 1; chạy lại `docker compose down -v` + `up -d --build --wait` đạt exit 0 sau 41.4 giây, `RestartCount=0`, cả 2 container healthy. |
 | **OpenCode (DeepSeek V4.1 Flash)** | Hỗ trợ dịch thuật và định dạng tài liệu Hướng dẫn triển khai (Deployment Guide) bằng tiếng Anh chuẩn xác theo 5 mục bắt buộc: Requirements, Setup Steps (gói gọn 2 lệnh sau khi clone), Environment Variables, Database & Seeds verification, và Verify It Works kèm mục Troubleshooting. | • `docs/deployment-guide.md` | Đo lường độ dài: 154 dòng, 795 từ; render thử sang PDF khổ A4 đạt đúng 2 trang (yêu cầu 1–2 trang); kiểm tra `Select-String` không có ký tự tiếng Việt; tự tay chạy lại từng lệnh curl và docker compose exec mẫu được nêu trong tài liệu. |
 | **OpenCode (DeepSeek V4.1 Flash)** | Hỗ trợ rà soát và cấu trúc tài liệu Checklist bảo mật theo OWASP Top 10:2025 cho BT3: phân tách minh chứng giữa kiểm thử thủ công qua curl (SEC-01/02/03) và automated test (TC-07), bổ sung ghi nhận giới hạn đối với chuỗi JSON lỗi cú pháp. | • `docs/checklist-bao-mat.md` | Kiểm chứng đúng 7 dòng trạng thái viết hoa; chạy regex quét bí mật trong git log và mã nguồn trả về 0 kết quả lộ lọt; kiểm tra phân quyền RBAC và mã hóa mật khẩu; đối chiếu trạng thái ĐÃ LÀM/CHƯA LÀM với thực tế mã nguồn. |
 | **OpenCode (DeepSeek V4.1 Flash)** | Hỗ trợ soạn thảo và định dạng tài liệu đặc tả REST API chi tiết bằng tiếng Anh (Component 6): bao phủ toàn bộ 17 endpoint thực tế của 5 controller; phân tích đúng cấu trúc DTO thực tế, ma trận phân quyền Bearer token và quy ước phản hồi ApiResponseDTO NON_NULL. | • `docs/api-docs/README.md`<br>• `docs/api-docs/openapi.yaml`<br>• `docs/api-docs/swagger.json`<br>• `docs/api-docs/index.html` | Chạy trực tiếp 17 lệnh gọi API thật qua curl và PowerShell tới `http://localhost:8088` trên container Docker thật; trích xuất 100% dữ liệu response JSON thực tế dán vào tài liệu; kiểm tra đủ 17 mục API, 18 khối json, thân bài viết tiếng Anh, 0 bẫy đường dẫn cũ. |
-| **OpenCode (DeepSeek V4.1 Flash)** | Hỗ trợ hiện thực tiêu chí S3 (mật khẩu trong CSDL là chuỗi băm): tạo entity `User`, `UserRepository`, bean `BCryptPasswordEncoder`, migration `V2__add_users_table.sql`, sửa `AuthController` sang xác thực BCrypt và bổ sung `seedUsers()` idempotent cho H2/local. | • `entity/User.java`<br>• `repository/UserRepository.java`<br>• `config/SecurityConfig.java`<br>• `controller/AuthController.java`<br>• `config/DataInitializer.java`<br>• `migrations/V2__add_users_table.sql`<br>• `pom.xml` | Tự sinh 3 hash BCrypt cost 10 bằng chính thư viện `spring-security-crypto`; chạy `.\mvnw.cmd test` đạt 12/12 PASS (30.309s); dựng lại Docker và truy vấn MySQL xác nhận `LEFT(password_hash,7)='$2a$10$'`, `LENGTH=60` cho cả 3 tài khoản; đăng nhập đúng trả HTTP 200, sai trả HTTP 409; khởi động lại service xác nhận `users` vẫn 3 dòng và login vẫn 200. |
+| **OpenCode (DeepSeek V4.1 Flash)** | Hỗ trợ hiện thực tiêu chí S3 (mật khẩu trong CSDL là chuỗi băm): tạo entity `User`, `UserRepository`, bean `BCryptPasswordEncoder`, migration `V2__add_users_table.sql`, sửa `AuthController` sang xác thực BCrypt và bổ sung `seedUsers()` idempotent cho H2/local. | • `entity/User.java`<br>• `repository/UserRepository.java`<br>• `config/SecurityConfig.java`<br>• `controller/AuthController.java`<br>• `config/DataInitializer.java`<br>• `migrations/V2__add_users_table.sql`<br>• `pom.xml` | Tự sinh 3 hash BCrypt cost 10 bằng chính thư viện `spring-security-crypto`; chạy `.\mvnw.cmd test` đạt 12/12 PASS (26.777s); dựng lại Docker và truy vấn MySQL xác nhận `LEFT(password_hash,7)='$2a$10$'`, `LENGTH=60` cho cả 3 tài khoản; đăng nhập đúng trả HTTP 200, sai trả HTTP 409; khởi động lại service xác nhận `users` vẫn 3 dòng và login vẫn 200. |
 
 ---
 

diff --git a/docs/test-report.md b/docs/test-report.md
@@ -77,18 +77,19 @@ Kết quả tổng hợp từ Maven Surefire:
 [INFO] ------------------------------------------------------------------------
 [INFO] BUILD SUCCESS
 [INFO] ------------------------------------------------------------------------
-[INFO] Total time:  30.309 s
+[INFO] Total time:  26.777 s
+[INFO] Finished at: 2026-11-12T16:39:51+07:00
 ```
 
 Bảng tổng hợp chi tiết theo 4 lớp kiểm thử cấu thành 12 test cases (Khớp 100% Ảnh minh chứng 02):
 
 | Lớp test Java | Tầng kiểm thử | Số test | Thời gian chạy | Kết quả thực tế | Ghi chú môi trường |
 |---|---|---:|---:|:---:|---|
-| `PartTransactionServiceTest` | Unit (Service Logic) | 7 | 0.222 s | **7/7 PASS** | Dùng Mockito cô lập phụ thuộc, không truy xuất CSDL |
+| `PartTransactionServiceTest` | Unit (Service Logic) | 7 | 0.529 s | **7/7 PASS** | Dùng Mockito cô lập phụ thuộc, không truy xuất CSDL |
 | `DataInitializerIntegrationTest` | Integration (C8 Tái lập) | 1 | 14.530 s | **1/1 PASS** | `@SpringBootTest`, nạp dữ liệu thật từ `seeds/` vào H2 |
-| `PartTransactionIntegrationTest` | Integration (End-to-End H2) | 2 | 1.550 s | **2/2 PASS** | `@SpringBootTest` + H2 thật + `@Transactional` rollback |
+| `PartTransactionIntegrationTest` | Integration (End-to-End H2) | 2 | 2.326 s | **2/2 PASS** | `@SpringBootTest` + H2 thật + `@Transactional` rollback |
 | `TransactionControllerApiTest` | API Slice (MockMvc Controller) | 2 | 0.590 s | **2/2 PASS** | `MockMvcBuilders.standaloneSetup()` + Mockito service |
-| **Tổng cộng** | **Cả 3 tầng Kim tự tháp** | **12** | **30.309 s** | **12/12 PASS (100%)** | **0 failures, 0 errors, 0 skipped** |
+| **Tổng cộng** | **Cả 3 tầng Kim tự tháp** | **12** | **26.777 s** | **12/12 PASS (100%)** | **0 failures, 0 errors, 0 skipped** |
 
 ---
 

diff --git a/README.md b/README.md
@@ -351,7 +351,7 @@ Ghi chú: lần chạy đầu trước khi sửa healthcheck MySQL báo exit 1 v
    $ .\mvnw.cmd test
    Tests run: 12, Failures: 0, Errors: 0, Skipped: 0
    [INFO] BUILD SUCCESS
-   [INFO] Total time:  30.309 s
+   [INFO] Total time:  26.777 s
 
 9. User trong container:
    uid=100(mekonguser) gid=101(mekonggroup) groups=101(mekonggroup)
